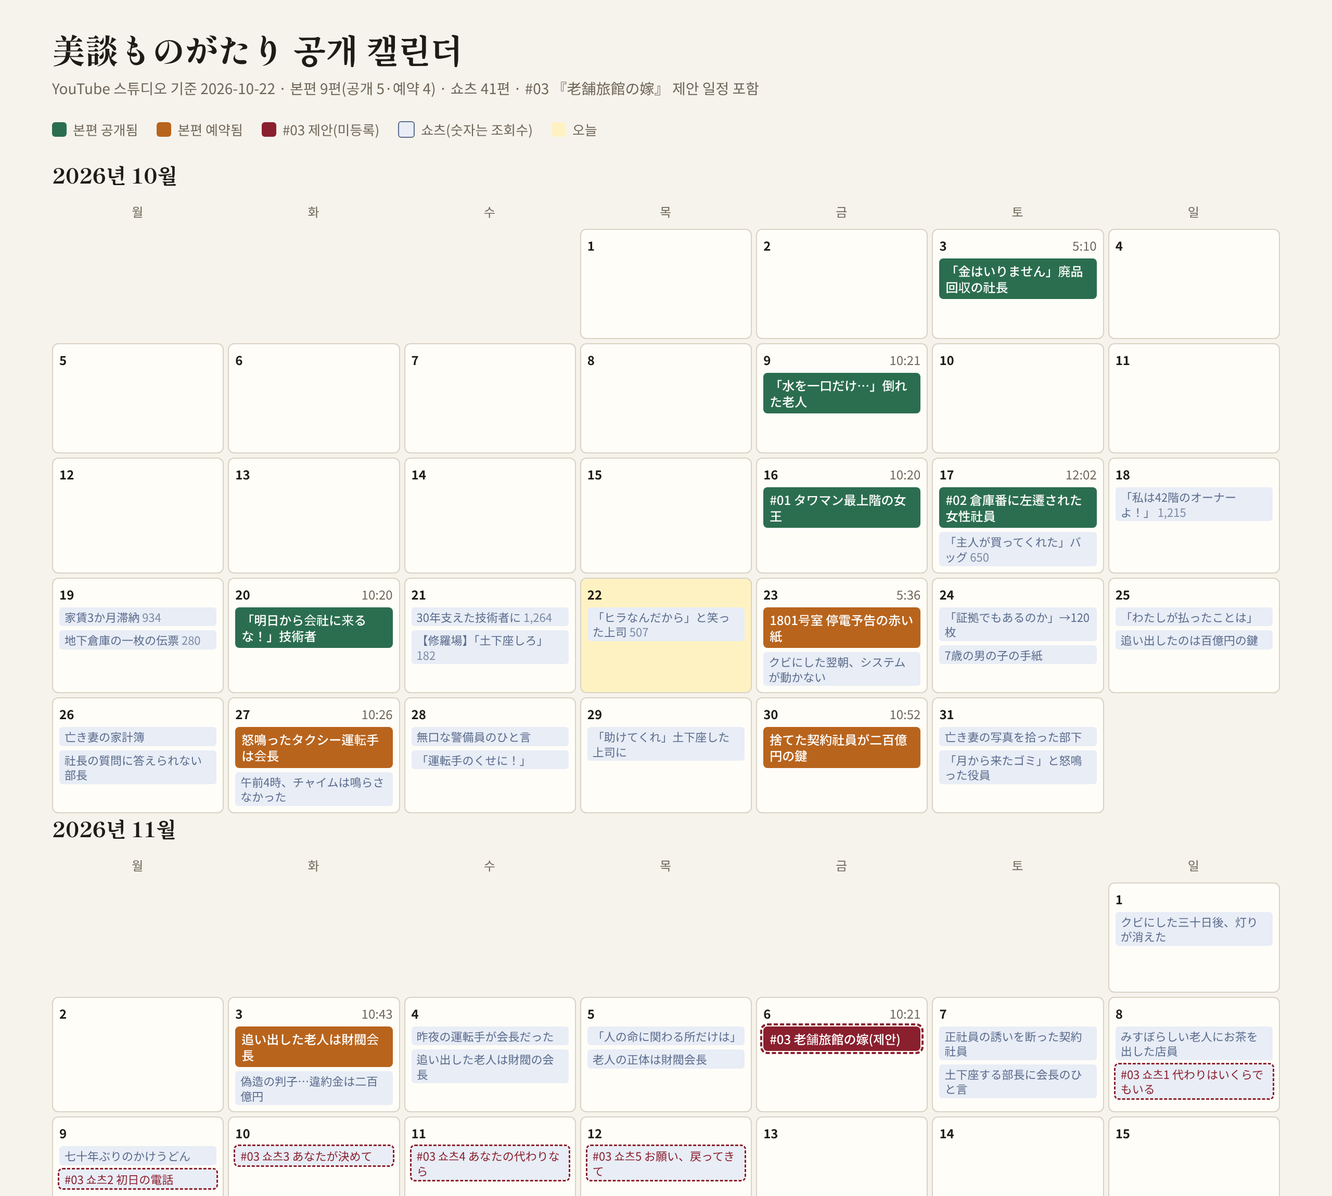
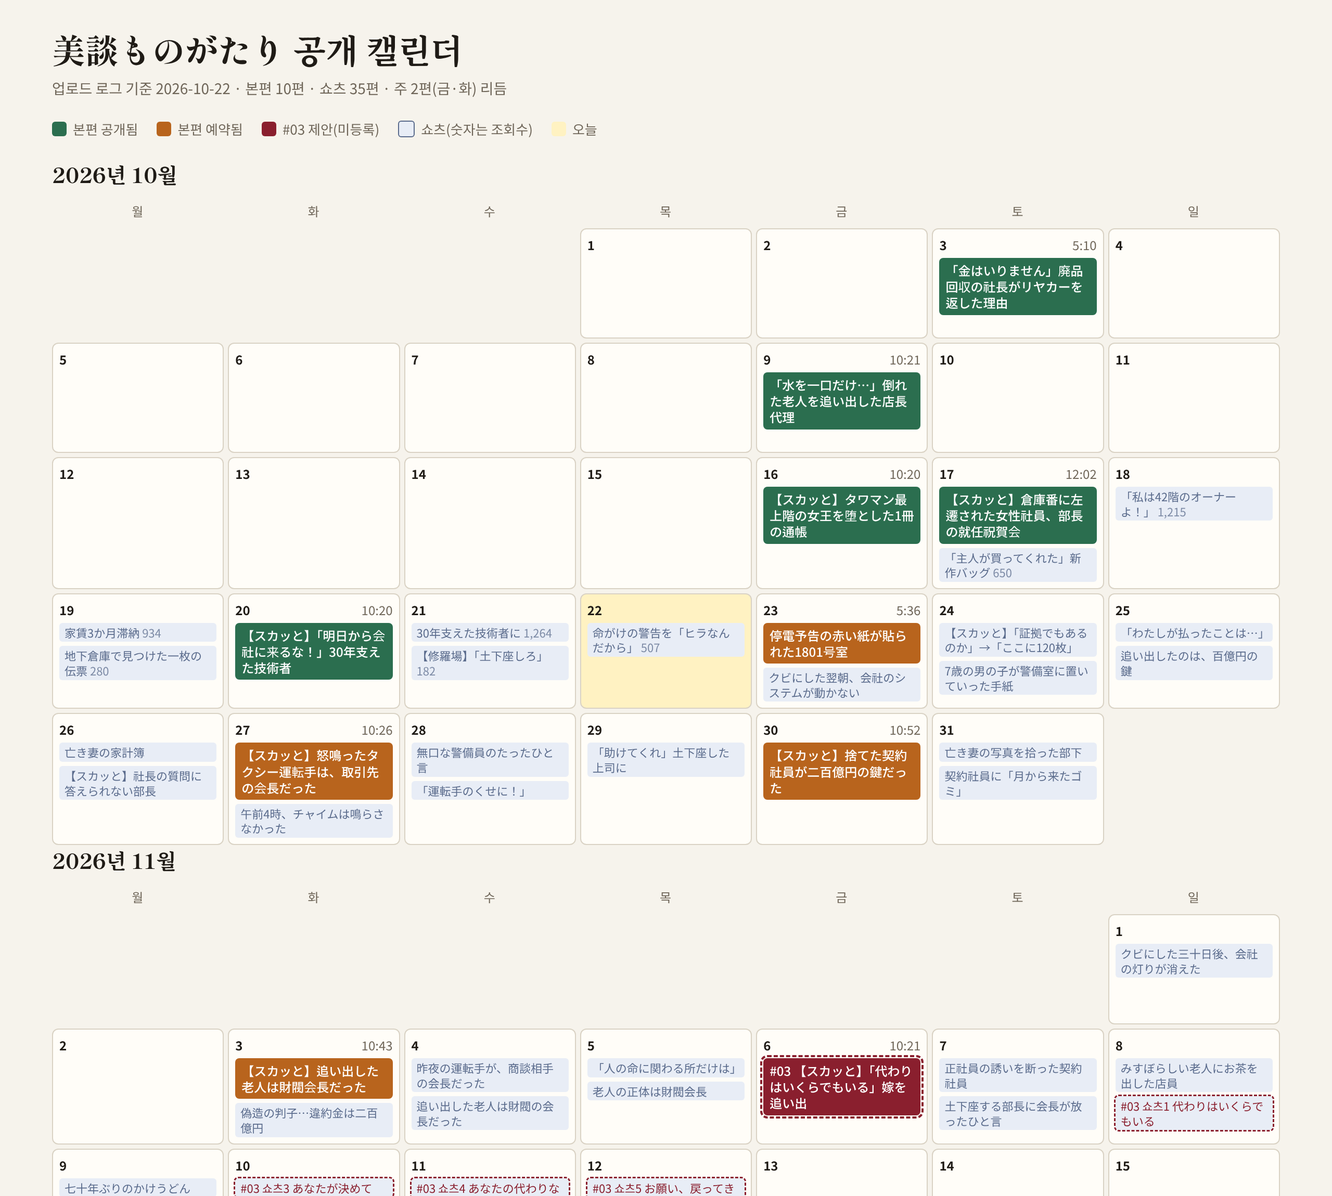
공개 일정 캘린더 생성기(upload_calendar.py: 로그→HTML+PNG) + 주 2편(금·화) 운영 기준을 제7장 9-1에 명문화
Claude-Session: https://claude.ai/code/session_01PqpyQRw9VM4Sd9dFwfzEaW

diff --git a/docs/채널-공개캘린더.html b/docs/채널-공개캘린더.html
@@ -45,7 +45,7 @@ td.n{font-variant-numeric:tabular-nums;text-align:right}
 <div class="wrap">
   <header>
     <h1>美談ものがたり 공개 캘린더</h1>
-    <p class="sub">YouTube 스튜디오 기준 2026-10-22 · 본편 9편(공개 5·예약 4) · 쇼츠 41편 · #03 『老舗旅館の嫁』 제안 일정 포함</p>
+    <p class="sub">업로드 로그 기준 2026-10-22 · 본편 10편 · 쇼츠 35편 · 주 2편(금·화) 리듬</p>
   </header>
   <div class="legend">
     <span><i class="sw" style="background:var(--main-pub)"></i>본편 공개됨</span>
@@ -64,43 +64,8 @@ td.n{font-variant-numeric:tabular-nums;text-align:right}
   <p class="note">본편 리듬은 금·화, 쇼츠는 거의 매일 1~2편. #03은 기예약 4편 뒤 첫 빈 금요일(11/6)에 두고, 쇼츠 5편은 기예약이 2편인 날(11/7)을 피해 11/8~11/12에 하루 1편씩 배치했습니다. 공개 시각은 전부 20:00 JST(쇼츠 평일 19:00·주말 12:00)로 가정했습니다.</p>
 </div>
 <script>
-const MAIN=[
- ["2026-10-03","pub","「金はいりません」廃品回収の社長","5:10",16],
- ["2026-10-09","pub","「水を一口だけ…」倒れた老人","10:21",3],
- ["2026-10-16","pub","#01 タワマン最上階の女王","10:20",10],
- ["2026-10-17","pub","#02 倉庫番に左遷された女性社員","12:02",6],
- ["2026-10-20","pub","「明日から会社に来るな！」技術者","10:20",4],
- ["2026-10-23","res","1801号室 停電予告の赤い紙","5:36",2],
- ["2026-10-27","res","怒鳴ったタクシー運転手は会長","10:26",0],
- ["2026-10-30","res","捨てた契約社員が二百億円の鍵","10:52",0],
- ["2026-11-03","res","追い出した老人は財閥会長","10:43",0],
- ["2026-11-06","prop","#03 老舗旅館の嫁(제안)","10:21",null],
-];
-const SHORTS={
- "2026-10-17":[["「主人が買ってくれた」バッグ",650]],
- "2026-10-18":[["「私は42階のオーナーよ！」",1215]],
- "2026-10-19":[["家賃3か月滞納",934],["地下倉庫の一枚の伝票",280]],
- "2026-10-21":[["30年支えた技術者に",1264],["【修羅場】「土下座しろ」",182]],
- "2026-10-22":[["「ヒラなんだから」と笑った上司",507]],
- "2026-10-23":[["クビにした翌朝、システムが動かない"]],
- "2026-10-24":[["「証拠でもあるのか」→120枚"],["7歳の男の子の手紙"]],
- "2026-10-25":[["「わたしが払ったことは」"],["追い出したのは百億円の鍵"]],
- "2026-10-26":[["亡き妻の家計簿"],["社長の質問に答えられない部長"]],
- "2026-10-27":[["午前4時、チャイムは鳴らさなかった"]],
- "2026-10-28":[["無口な警備員のひと言"],["「運転手のくせに！」"]],
- "2026-10-29":[["「助けてくれ」土下座した上司に"]],
- "2026-10-31":[["亡き妻の写真を拾った部下"],["「月から来たゴミ」と怒鳴った役員"]],
- "2026-11-01":[["クビにした三十日後、灯りが消えた"]],
- "2026-11-03":[["偽造の判子…違約金は二百億円"]],
- "2026-11-04":[["昨夜の運転手が会長だった"],["追い出した老人は財閥の会長"]],
- "2026-11-05":[["「人の命に関わる所だけは」"],["老人の正体は財閥会長"]],
- "2026-11-07":[["正社員の誘いを断った契約社員"],["土下座する部長に会長のひと言"]],
- "2026-11-08":[["みすぼらしい老人にお茶を出した店員"],["#03 쇼츠1 代わりはいくらでもいる",null,true]],
- "2026-11-09":[["七十年ぶりのかけうどん"],["#03 쇼츠2 初日の電話",null,true]],
- "2026-11-10":[["#03 쇼츠3 あなたが決めて",null,true]],
- "2026-11-11":[["#03 쇼츠4 あなたの代わりなら",null,true]],
- "2026-11-12":[["#03 쇼츠5 お願い、戻ってきて",null,true]],
-};
+const MAIN=[["2026-10-03", "pub", "「金はいりません」廃品回収の社長がリヤカーを返した理由", "5:10", null], ["2026-10-09", "pub", "「水を一口だけ…」倒れた老人を追い出した店長代理", "10:21", null], ["2026-10-16", "pub", "【スカッと】タワマン最上階の女王を堕とした1冊の通帳", "10:20", null], ["2026-10-17", "pub", "【スカッと】倉庫番に左遷された女性社員、部長の就任祝賀会", "12:02", null], ["2026-10-20", "pub", "【スカッと】「明日から会社に来るな！」30年支えた技術者", "10:20", null], ["2026-10-23", "res", "停電予告の赤い紙が貼られた1801号室", "5:36", null], ["2026-10-27", "res", "【スカッと】怒鳴ったタクシー運転手は、取引先の会長だった", "10:26", null], ["2026-10-30", "res", "【スカッと】捨てた契約社員が二百億円の鍵だった", "10:52", null], ["2026-11-03", "res", "【スカッと】追い出した老人は財閥会長だった", "10:43", null], ["2026-11-06", "prop", "#03 【スカッと】「代わりはいくらでもいる」嫁を追い出", "10:21", null]];
+const SHORTS={"2026-10-17": [["「主人が買ってくれた」新作バッグ", 650, false]], "2026-10-18": [["「私は42階のオーナーよ！」", 1215, false]], "2026-10-19": [["家賃3か月滞納", 934, false], ["地下倉庫で見つけた一枚の伝票", 280, false]], "2026-10-21": [["30年支えた技術者に", 1264, false], ["【修羅場】「土下座しろ」", 182, false]], "2026-10-22": [["命がけの警告を「ヒラなんだから」", 507, false]], "2026-10-23": [["クビにした翌朝、会社のシステムが動かない", null, false]], "2026-10-24": [["【スカッと】「証拠でもあるのか」→「ここに120枚」", null, false], ["7歳の男の子が警備室に置いていった手紙", null, false]], "2026-10-25": [["「わたしが払ったことは…」", null, false], ["追い出したのは、百億円の鍵", null, false]], "2026-10-26": [["亡き妻の家計簿", null, false], ["【スカッと】社長の質問に答えられない部長", null, false]], "2026-10-27": [["午前4時、チャイムは鳴らさなかった", null, false]], "2026-10-28": [["無口な警備員のたったひと言", null, false], ["「運転手のくせに！」", null, false]], "2026-10-29": [["「助けてくれ」土下座した上司に", null, false]], "2026-10-31": [["亡き妻の写真を拾った部下", null, false], ["契約社員に「月から来たゴミ」", null, false]], "2026-11-01": [["クビにした三十日後、会社の灯りが消えた", null, false]], "2026-11-03": [["偽造の判子…違約金は二百億円", null, false]], "2026-11-04": [["昨夜の運転手が、商談相手の会長だった", null, false], ["追い出した老人は財閥の会長だった", null, false]], "2026-11-05": [["「人の命に関わる所だけは」", null, false], ["老人の正体は財閥会長", null, false]], "2026-11-07": [["正社員の誘いを断った契約社員", null, false], ["土下座する部長に会長が放ったひと言", null, false]], "2026-11-08": [["みすぼらしい老人にお茶を出した店員", null, false], ["#03 쇼츠1 代わりはいくらでもいる", null, true]], "2026-11-09": [["七十年ぶりのかけうどん", null, false], ["#03 쇼츠2 初日の電話", null, true]], "2026-11-10": [["#03 쇼츠3 あなたが決めて", null, true]], "2026-11-11": [["#03 쇼츠4 あなたの代わりなら", null, true]], "2026-11-12": [["#03 쇼츠5 お願い、戻ってきて", null, true]]};
 const TODAY="2026-10-22", DOW=["월","화","수","목","금","토","일"];
 const mainBy={}; MAIN.forEach(m=>mainBy[m[0]]=m);
 function month(y,m){

diff --git a/scripts/upload_calendar.py b/scripts/upload_calendar.py
@@ -1,0 +1,38 @@
+#!/usr/bin/env python3
+"""채널 공개 캘린더 생성기: docs/채널-업로드로그.md → docs/채널-공개캘린더.html + .png
+사용법: upload_calendar.py [--today YYYY-MM-DD]   (업로드 로그를 고칠 때마다 실행, 제7장 9-1)"""
+import re, os, sys, json, datetime as dt, subprocess
+ROOT=os.path.dirname(os.path.dirname(os.path.abspath(__file__)))
+LOG=f"{ROOT}/docs/채널-업로드로그.md"; OUT=f"{ROOT}/docs/채널-공개캘린더.html"; PNG=OUT[:-5]+".png"
+today=dt.date.today().isoformat()
+if "--today" in sys.argv: today=sys.argv[sys.argv.index("--today")+1]
+main=[]; shorts={}; sec=None; strip=lambda t:t.strip().strip("*").strip()
+for ln in open(LOG,encoding="utf-8"):
+    if ln.startswith("## "): sec=ln; continue
+    c=[strip(x) for x in ln.strip().strip("|").split("|")]
+    if len(c)<4 or not re.match(r"\d{4}-\d{2}-\d{2}$",c[0]): continue
+    if "본편" in sec:
+        st={"공개":"pub","예약":"res","제안":"prop"}.get(c[2],"res")
+        v=re.search(r"(\d[\d,]*)회",c[5]) if len(c)>5 else None
+        main.append([c[0],st,c[3][:28],c[4] if len(c)>4 else "",int(v.group(1).replace(",","")) if v else None])
+    elif "쇼츠" in sec:
+        items=[]
+        for part in re.split(r"\s/\s",c[3]):
+            part=part.replace("— 공개","").strip()
+            v=re.search(r"\((\d[\d,]*)회\)",part); name=re.sub(r"\(\d[\d,]*회\)","",part).strip()
+            items.append([re.sub(r"\(제안\)","",name).strip()[:26], int(v.group(1).replace(",","")) if v else None, "제안" in part])
+        shorts.setdefault(c[0],[]).extend(items)
+months=sorted({(int(d[:4]),int(d[5:7])) for d in [m[0] for m in main]+list(shorts)})
+head='<title>美談ものがたり 공개 캘린더</title>\n<meta name="claude:viewport-fit-sides" content="cover">\n<link rel="stylesheet" href="https://fonts.googleapis.com/css2?family=Shippori+Mincho:wght@600;800&family=Noto+Sans+KR:wght@400;500;700&display=swap">\n<style>\n/* 레이아웃: 월간 7열 격자. 하루 칸에 본편(굵은 띠)·쇼츠(작은 칩)를 쌓는다. */\n:root{\n  --bg:#f6f3ec; --fg:#1f1b16; --muted:#6f6659; --line:#d9d2c4; --cell:#fffdf8;\n  --main-pub:#2b6e4f; --main-res:#b8641d; --main-prop:#8a1f2e;\n  --short:#5a6b8c; --short-bg:#e8edf6; --today:#fff2c2;\n  --display:"Shippori Mincho","Noto Serif CJK JP",serif; --body:"Noto Sans KR","Noto Sans CJK JP",system-ui,sans-serif;\n}\n@media (prefers-color-scheme: dark){:root:not([data-theme="light"]){--bg:#17150f;--fg:#efe9dd;--muted:#a79d8b;--line:#3a352c;--cell:#211e17;--main-pub:#6fcf9a;--main-res:#f0a35a;--main-prop:#ff8a9a;--short:#b7c5e6;--short-bg:#2a3242;--today:#4a3f12;color-scheme:dark}}\n:root[data-theme="dark"]{--bg:#17150f;--fg:#efe9dd;--muted:#a79d8b;--line:#3a352c;--cell:#211e17;--main-pub:#6fcf9a;--main-res:#f0a35a;--main-prop:#ff8a9a;--short:#b7c5e6;--short-bg:#2a3242;--today:#4a3f12;color-scheme:dark}\nbody{background:var(--bg);color:var(--fg);font-family:var(--body);padding-block:24px;padding-left:max(16px,env(safe-area-inset-left,0px));padding-right:max(16px,env(safe-area-inset-right,0px));}\n.wrap{max-width:1180px;margin:0 auto;display:grid;gap:20px}\nh1{font-family:var(--display);font-weight:800;font-size:clamp(22px,3vw,32px);margin:0;text-wrap:balance}\n.sub{color:var(--muted);font-size:14px;margin:4px 0 0}\n.legend{display:flex;flex-wrap:wrap;gap:10px 18px;font-size:13px;color:var(--muted)}\n.legend span{display:inline-flex;align-items:center;gap:6px}\n.sw{width:14px;height:14px;border-radius:3px;display:inline-block}\n.month h2{font-family:var(--display);font-size:20px;margin:0 0 8px}\n.grid{display:grid;grid-template-columns:repeat(7,minmax(0,1fr));gap:4px}\n.dow{text-align:center;font-size:12px;color:var(--muted);letter-spacing:.08em;padding:4px 0}\n.day{background:var(--cell);border:1px solid var(--line);border-radius:6px;min-height:92px;padding:6px;display:flex;flex-direction:column;gap:4px;min-width:0}\n.day.empty{background:transparent;border-color:transparent}\n.day.today{background:var(--today)}\n.num{font-size:12px;color:var(--muted);font-variant-numeric:tabular-nums;display:flex;justify-content:space-between}\n.num b{color:var(--fg)}\n.main{font-size:12px;line-height:1.3;padding:4px 6px;border-radius:4px;color:#fff;font-weight:500;overflow-wrap:anywhere}\n.main.pub{background:var(--main-pub)} .main.res{background:var(--main-res)} .main.prop{background:var(--main-prop);outline:2px dashed var(--main-prop);outline-offset:1px}\n:root[data-theme="dark"] .main,:root:not([data-theme="light"]) .main{color:#111}\n@media (prefers-color-scheme: light){:root:not([data-theme="dark"]) .main{color:#fff}}\n:root[data-theme="light"] .main{color:#fff}\n.short{font-size:11px;line-height:1.3;padding:2px 5px;border-radius:3px;background:var(--short-bg);color:var(--short);overflow-wrap:anywhere}\n.short.prop{outline:1.5px dashed var(--main-prop);color:var(--main-prop)}\n.short .v{opacity:.75}\n.note{font-size:13px;color:var(--muted);line-height:1.6}\n.tbl{overflow-x:auto}\ntable{border-collapse:collapse;font-size:13px;min-width:520px;width:100%}\nth,td{text-align:left;padding:6px 8px;border-bottom:1px solid var(--line);vertical-align:top}\nth{color:var(--muted);font-weight:500;font-size:12px;letter-spacing:.06em}\ntd.n{font-variant-numeric:tabular-nums;text-align:right}\n@media (max-width:640px){.grid{gap:3px}.day{min-height:70px;padding:4px}.main{font-size:10px;padding:3px 4px}.short{font-size:9.5px;padding:2px 3px}.num{font-size:10px}}\n</style>\n<div class="wrap">\n  <header>\n    <h1>美談ものがたり 공개 캘린더</h1>\n    <p class="sub">YouTube 스튜디오 기준 2026-10-22 · 본편 9편(공개 5·예약 4) · 쇼츠 41편 · #03 『老舗旅館の嫁』 제안 일정 포함</p>\n  </header>\n  <div class="legend">\n    <span><i class="sw" style="background:var(--main-pub)"></i>본편 공개됨</span>\n    <span><i class="sw" style="background:var(--main-res)"></i>본편 예약됨</span>\n    <span><i class="sw" style="background:var(--main-prop)"></i>#03 제안(미등록)</span>\n    <span><i class="sw" style="background:var(--short-bg);border:1px solid var(--short)"></i>쇼츠(숫자는 조회수)</span>\n    <span><i class="sw" style="background:var(--today)"></i>오늘</span>\n  </div>\n  <div id="cal"></div>\n  <div class="tbl">\n    <table>\n      <thead><tr><th>본편</th><th>날짜</th><th>상태</th><th>길이</th><th class="n">조회수</th></tr></thead>\n      <tbody id="list"></tbody>\n    </table>\n  </div>\n  <p class="note">본편 리듬은 금·화, 쇼츠는 거의 매일 1~2편. #03은 기예약 4편 뒤 첫 빈 금요일(11/6)에 두고, 쇼츠 5편은 기예약이 2편인 날(11/7)을 피해 11/8~11/12에 하루 1편씩 배치했습니다. 공개 시각은 전부 20:00 JST(쇼츠 평일 19:00·주말 12:00)로 가정했습니다.</p>\n</div>\n'
+tail='const TODAY="2026-10-22", DOW=["월","화","수","목","금","토","일"];\nconst mainBy={}; MAIN.forEach(m=>mainBy[m[0]]=m);\nfunction month(y,m){\n  const first=new Date(y,m-1,1), days=new Date(y,m,0).getDate();\n  let lead=(first.getDay()+6)%7, h=`<section class="month"><h2>${y}년 ${m}월</h2><div class="grid">`;\n  h+=DOW.map(d=>`<div class="dow">${d}</div>`).join("");\n  for(let i=0;i<lead;i++)h+=`<div class="day empty"></div>`;\n  for(let d=1;d<=days;d++){\n    const k=`${y}-${String(m).padStart(2,"0")}-${String(d).padStart(2,"0")}`;\n    const mm=mainBy[k], ss=SHORTS[k]||[];\n    h+=`<div class="day${k===TODAY?" today":""}"><div class="num"><b>${d}</b>${mm?`<span>${mm[3]}</span>`:""}</div>`;\n    if(mm)h+=`<div class="main ${mm[1]}">${mm[2]}</div>`;\n    ss.forEach(s=>h+=`<div class="short${s[2]?" prop":""}">${s[0]}${s[1]!=null?` <span class="v">${s[1].toLocaleString()}</span>`:""}</div>`);\n    h+=`</div>`;\n  }\n  return h+`</div></section>`;\n}\ndocument.getElementById("cal").innerHTML=month(2026,10)+month(2026,11);\nconst st={pub:"공개",res:"예약",prop:"제안"};\ndocument.getElementById("list").innerHTML=MAIN.map(m=>{const d=new Date(m[0]);return `<tr><td>${m[2]}</td><td>${m[0].slice(5).replace("-","/")}(${DOW[(d.getDay()+6)%7]})</td><td>${st[m[1]]}</td><td>${m[3]}</td><td class="n">${m[4]==null?"–":m[4]}</td></tr>`}).join("");\n</script>\n'
+tail=tail.replace("month(2026,10)+month(2026,11)","+".join(f"month({y},{m})" for y,m in months))
+html=head+"<script>\nconst MAIN="+json.dumps(main,ensure_ascii=False)+";\nconst SHORTS="+json.dumps(shorts,ensure_ascii=False)+";\n"+tail.replace('const TODAY="2026-10-22"',f'const TODAY="{today}"')
+html=re.sub(r'<p class="sub">.*?</p>',f'<p class="sub">업로드 로그 기준 {today} · 본편 {len(main)}편 · 쇼츠 {sum(len(v) for v in shorts.values())}편 · 주 2편(금·화) 리듬</p>',html,count=1)
+open(OUT,"w",encoding="utf-8").write(html)
+full=OUT+".full.html"; open(full,"w",encoding="utf-8").write('<!doctype html><html><head><meta charset="utf-8"></head><body style="margin:0">'+html+"</body></html>")
+try:
+    subprocess.run(["/opt/pw-browsers/chromium","--headless=new","--no-sandbox","--disable-gpu","--hide-scrollbars","--force-device-scale-factor=2","--window-size=1280,2400","--virtual-time-budget=4000",f"--screenshot={PNG}",f"file://{full}"],check=True,capture_output=True,timeout=120)
+    print("PNG:",PNG)
+except Exception as e: print("PNG 생략:",e)
+finally: os.remove(full)
+print("HTML:",OUT, "| 본편",len(main),"쇼츠",sum(len(v) for v in shorts.values()))

diff --git a/CLAUDE.md b/CLAUDE.md
@@ -313,7 +313,7 @@ deformed eyes, extra fingers.
 5-1. **눈물 표현(사용자 확정 2026-10-08)**: 흘리는 눈물은 실제 눈물처럼 자연스럽게. 키프레임은 아래 눈꺼풀에 고인 얇은 물막 + 눈가·코끝 붉어짐 + 한쪽 뺨에 가는 줄기 최대 1개(무광 피부). 굵고 반짝이는 젤 같은 줄기·여러 줄·양 뺨 동시 금지(#01 S03e 실증). 억누르는 장면은 「젖었지만 흐르지 않음」. i2v 동작은 한 줄기가 천천히 자연 곡선으로. 생성기가 눈물 컷을 자동 감지해 문장을 넣고, Kill Gate에서 눈물 질감을 검사한다.
 7. **인물 일관성**: 키프레임 승인 때와 조립 후 `qa_faces.py`로 인물별 얼굴을 전부 대조. 기준 얼굴은 대사 키프레임 → 다른 컷을 그 얼굴로 편집.
 8. **조립**: 장면 경계 프레임 맞춤(`frame_quantize`), BGM 구간 숨은 내레이션 아래(무언 컷 금지), `qa_assembly.py`로 전수 검수, `export_files=QA`로 클립 검수 시트만 받기.
-9-1. **작품마다 공개 일정은 채널 업로드 로그로 잡는다(고니감독님 확정 2026-10-22)**: 영상이 많아지므로 **모든 작품의 PHASE 1 착수 보고와 업로드 가이드 작성 때 `python3 scripts/next_slot.py "<작품>"`을 실행**해 `docs/채널-업로드로그.md`(공개 이력·기예약)를 출력하고, 제안한 본편(금·토 20:00 JST, 하루 간격 쌍 허용)·쇼츠 5편 날짜를 보고에 붙인다. `01_제작지침-적용.md` 점검표 첫 줄에 「업로드 로그 확인·예정 공개일」 항목을 둔다. 감독님이 확정하면 로그에 예약 행을 추가하고, 업로드 후 링크, 1주 후 성과표를 채운다. 로그를 보지 않고 날짜를 제안하지 않는다(#03: 이력을 안 보고 19:00·10/23 쇼츠를 제안해 1801号室 기예약과 겹친 실증).
+9-1. **공개 일정은 주 2편 기준으로 캘린더로 관리한다(고니감독님 확정 2026-10-22)**: 채널 운영 기준은 **본편 주 2편(금·화 20:00 JST), 쇼츠 하루 1~2편**. 유일한 출처는 `docs/채널-업로드로그.md`이고, 로그를 고칠 때마다 `python3 scripts/upload_calendar.py`로 `docs/채널-공개캘린더.html`·`.png`를 다시 만들어 감독님께 이미지로 보여 드린다(공개=초록, 예약=주황, 제안=빨강 점선, 쇼츠=파란 칩). 새 작품은 로그의 마지막 기예약 뒤 첫 빈 금·화 칸에 넣고, 같은 주에 본편이 이미 2편이면 다음 주로 넘긴다. **작품마다 공개 일정은 채널 업로드 로그로 잡는다**: 영상이 많아지므로 **모든 작품의 PHASE 1 착수 보고와 업로드 가이드 작성 때 `python3 scripts/next_slot.py "<작품>"`을 실행**해 `docs/채널-업로드로그.md`(공개 이력·기예약)를 출력하고, 제안한 본편(금·토 20:00 JST, 하루 간격 쌍 허용)·쇼츠 5편 날짜를 보고에 붙인다. `01_제작지침-적용.md` 점검표 첫 줄에 「업로드 로그 확인·예정 공개일」 항목을 둔다. 감독님이 확정하면 로그에 예약 행을 추가하고, 업로드 후 링크, 1주 후 성과표를 채운다. 로그를 보지 않고 날짜를 제안하지 않는다(#03: 이력을 안 보고 19:00·10/23 쇼츠를 제안해 1801号室 기예약과 겹친 실증).
 9. **운영**: 보류(나중에 처리)한 요청은 수정 목록에 「보류」로 올리고 **최종 전달 전 전부 처리 확인**(EP4 아웃트로 하이라이트 누락 교훈). burn 실행 중에는 브랜치에 푸시하지 않는다(결과 커밋 충돌). 실패 시 Artifact를 `deliver_from_run_id`·`resume_run_id`로 무료 회수. 유료 단계는 실측 단가로 추정해 보고.
 10. **아웃트로(일본어판)**: 하이라이트 몽타주 → CU 구독 요청(버튼) → 허리 위 예고 → 손 흔들기, 28초. `outro_cta_overlay.py`.
 12. **검수용 한글 자막(사용자 확정 2026-10-08)**: 사용자에게 영상(조립본·미리보기·완성본)을 검수받을 때는 일본어 자막 위에 **한글 번역 자막**을 함께 입힌 검수본을 전달한다(`build_chika_ko_subs.py` → `subs/<작품>-ko.ass`, `review_ko.py`). 업로드본에는 넣지 않는다.

diff --git a/docs/채널-업로드로그.md b/docs/채널-업로드로그.md
@@ -1,4 +1,6 @@
-# 美談ものがたり 채널 업로드 로그 (일정을 잡기 전에 반드시 이 표를 본다 · `scripts/next_slot.py`)
+# 美談ものがたり 채널 업로드 로그 (일정을 잡기 전에 반드시 이 표를 본다 · `scripts/next_slot.py` · `scripts/upload_calendar.py`)
+
+**운영 기준(고니감독님 확정 2026-10-22)**: 본편 **주 2편(금·화 20:00 JST)**, 쇼츠 하루 1~2편. 이 표를 고치면 `python3 scripts/upload_calendar.py`로 캘린더(HTML·PNG)를 다시 만든다.
 
 출처: YouTube 스튜디오 캡처 2026-10-22(고니감독님 제공). 시각은 스튜디오 기준 20:00 JST로 가정(다르면 고친다).
 
@@ -39,7 +41,11 @@
 | 2026-11-07 | 토 | 2 | 正社員の誘いを断った契約社員 / 土下座する部長に会長が放ったひと言 |
 | 2026-11-08 | 일 | 1 | みすぼらしい老人にお茶を出した店員 |
 | 2026-11-09 | 월 | 1 | 七十年ぶりのかけうどん |
-| **2026-11-10~11-14** | 화~토 | 1/일 | **#03 쇼츠 1~5(제안)** |
+| 2026-11-08 | 일 | +1 | #03 쇼츠1 代わりはいくらでもいる(제안) |
+| 2026-11-09 | 월 | +1 | #03 쇼츠2 初日の電話(제안) |
+| 2026-11-10 | 화 | 1 | #03 쇼츠3 あなたが決めて(제안) |
+| 2026-11-11 | 수 | 1 | #03 쇼츠4 あなたの代わりなら(제안) |
+| 2026-11-12 | 목 | 1 | #03 쇼츠5 お願い、戻ってきて(제안) |
 
 ## 성과 기록(공개 1주 후 채움)
 | 작품 | CTR | 평균 시청 지속률 | 이탈 타임코드 | 조회수(7일) | 쇼츠 조회수 |
